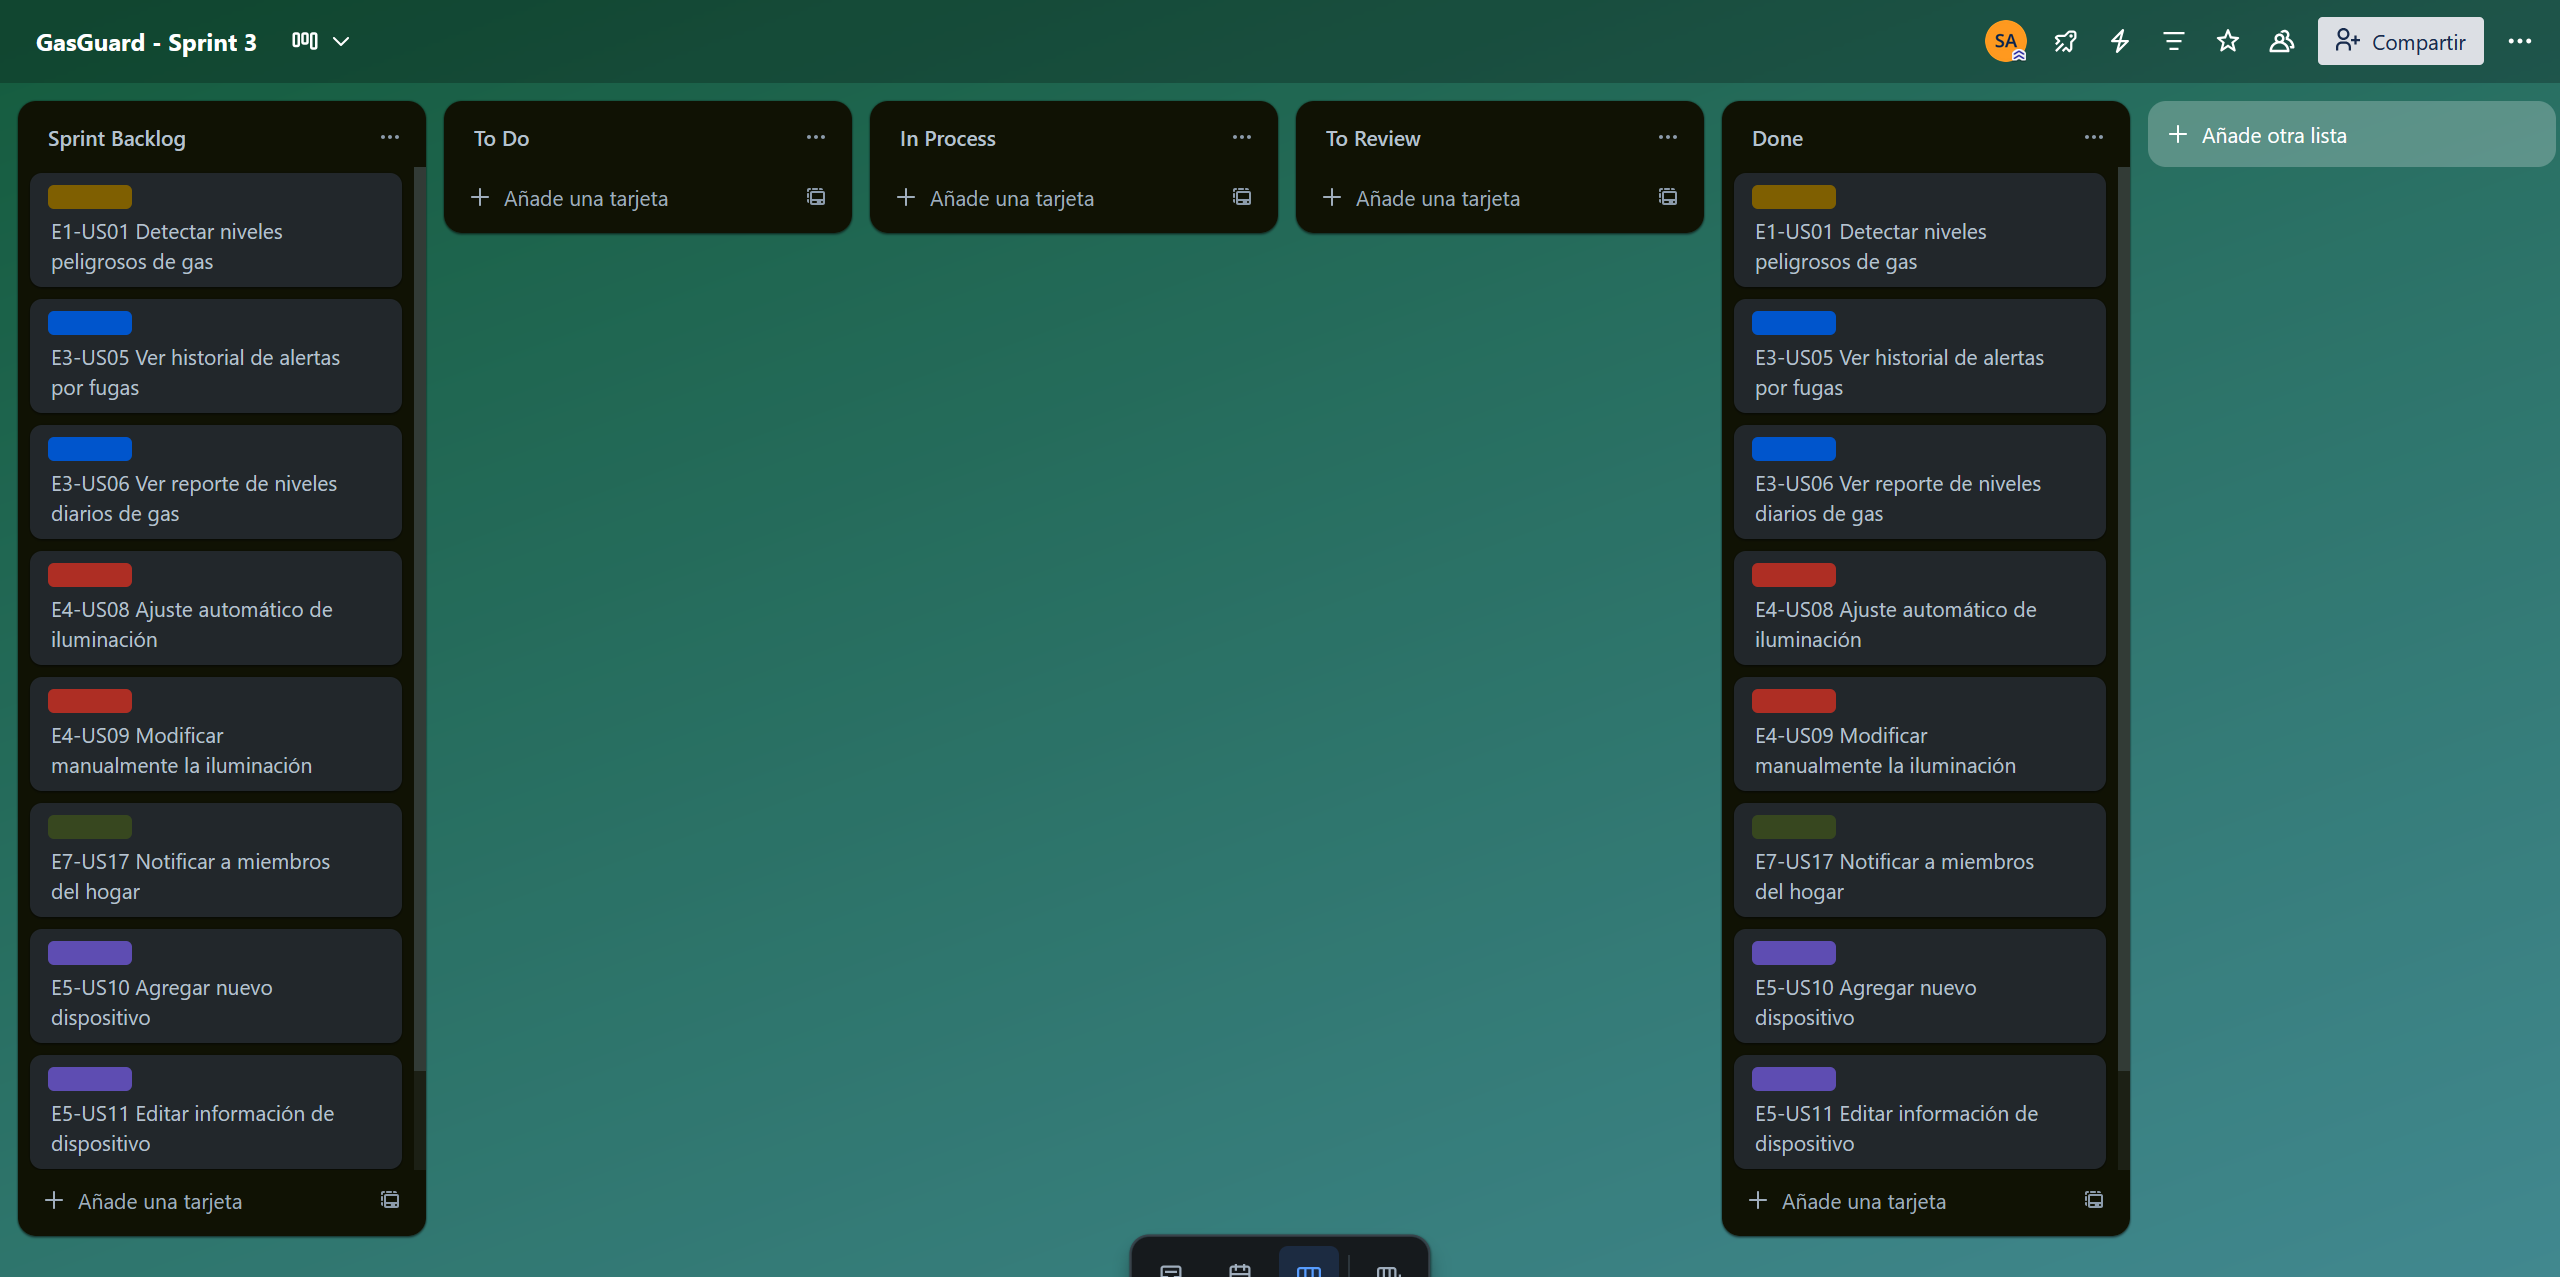
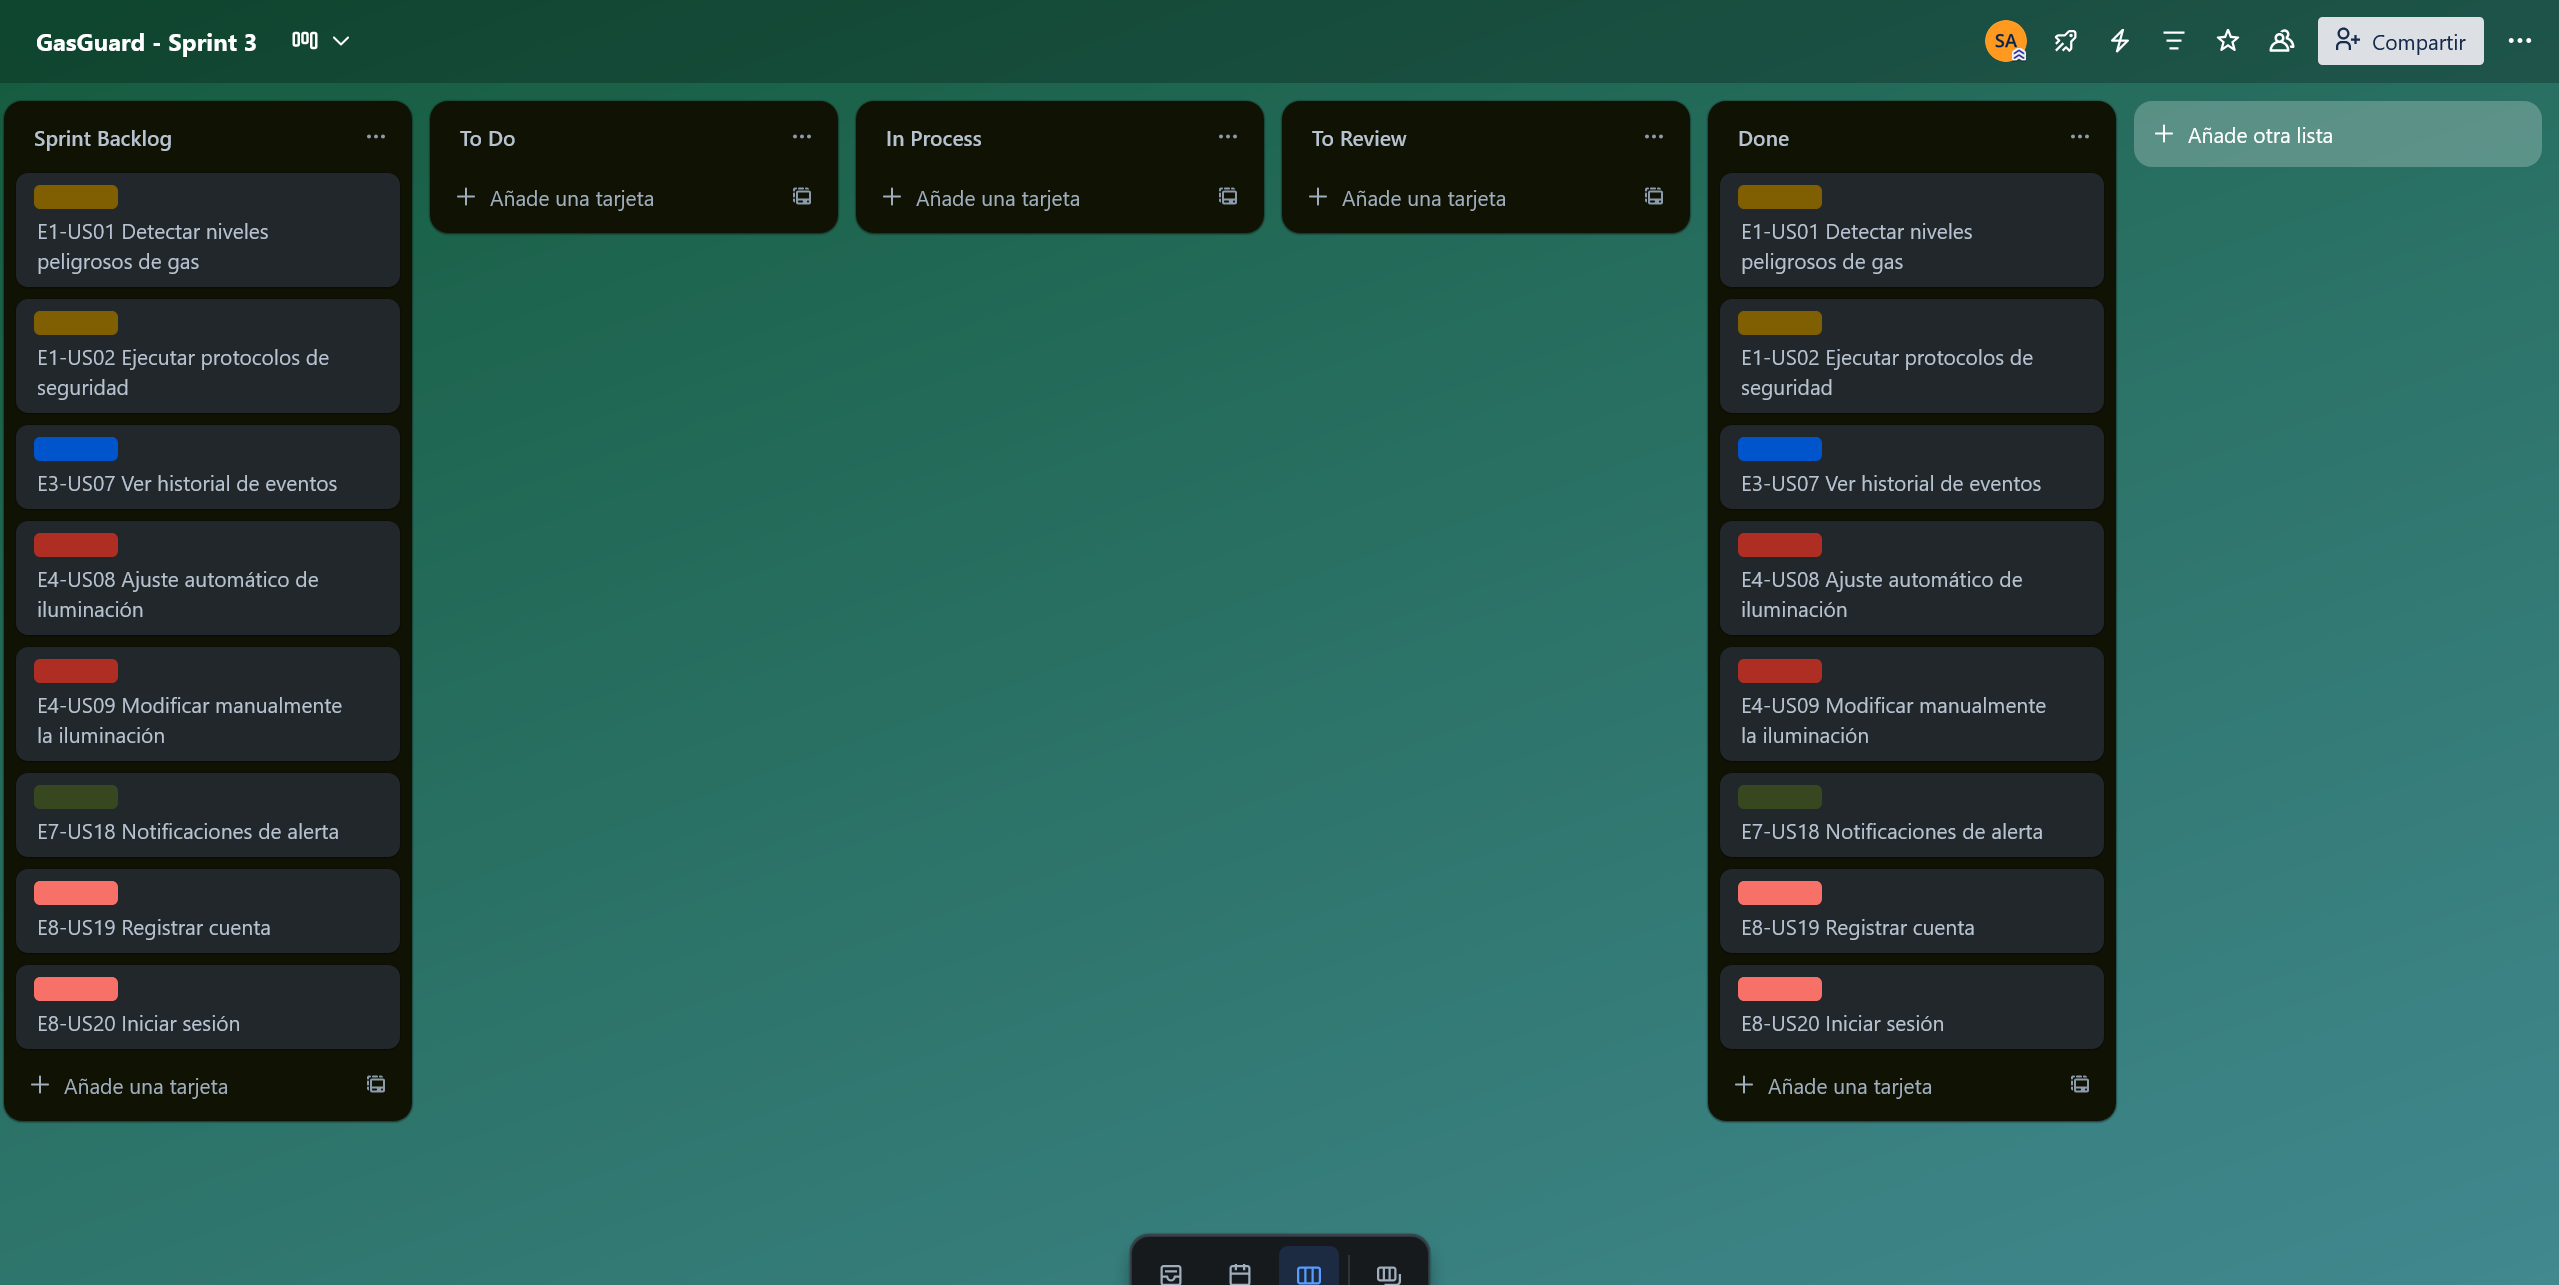
docs: new sprint backlog picture

diff --git a/README.md b/README.md
@@ -5134,7 +5134,7 @@ A continuación, se enseñarán los insights de ambos repositorios, donde se pod
 
 #### 6.2.3.3. Sprint Backlog 3
 
-<img src="./assets/sprint3/sprint3-backlog.PNG">
+<img src="./assets/sprint3/sprint3-backlog.png">
 
 Link al tablero de Trello: https://trello.com/b/TGg7LohF/gasguard-sprint-3
 
@@ -5180,7 +5180,7 @@ Link al tablero de Trello: https://trello.com/b/TGg7LohF/gasguard-sprint-3
         <tr>
             <td rowspan="1">E1-US02</td>
             <td rowspan="1">Ejecutar protocolos de seguridad</td>
-            <td>W28</td>
+            <td>W30</td>
             <td>Protocolos de seguridad (ESP32)</td>
             <td>Simular corte de suministro eléctrico, apertura de puertas y alarmas visuales y sonoras en prototipo</td>
             <td>5</td>
@@ -5190,7 +5190,7 @@ Link al tablero de Trello: https://trello.com/b/TGg7LohF/gasguard-sprint-3
         <tr>
             <td rowspan="3">E3-US07</td>
             <td rowspan="3">Ver historial de eventos</td>
-            <td>W35</td>
+            <td>W31</td>
             <td>Eventos UI (Web)</td>
             <td>Desarrollar pantalla de historial de eventos del sistema</td>
             <td>6</td>
@@ -5198,7 +5198,7 @@ Link al tablero de Trello: https://trello.com/b/TGg7LohF/gasguard-sprint-3
             <td>Done</td>
         </tr>
         <tr>
-            <td>W36</td>
+            <td>W32</td>
             <td>Eventos UI (Mobile)</td>
             <td>Versión mobile del historial de eventos</td>
             <td>5</td>
@@ -5206,7 +5206,7 @@ Link al tablero de Trello: https://trello.com/b/TGg7LohF/gasguard-sprint-3
             <td>Done</td>
         </tr>
         <tr>
-            <td>W37</td>
+            <td>W33</td>
             <td>Eventos API</td>
             <td>Implementar servicio para consulta de eventos</td>
             <td>7</td>
@@ -5216,7 +5216,7 @@ Link al tablero de Trello: https://trello.com/b/TGg7LohF/gasguard-sprint-3
         <tr>
             <td rowspan="3">E4-US08</td>
             <td rowspan="3">Ajuste automático de iluminación</td>
-            <td>W40</td>
+            <td>W34</td>
             <td>Sensor LDR </td>
             <td>Integrar fotoresistor y calibrar valores</td>
             <td>4</td>
@@ -5224,7 +5224,7 @@ Link al tablero de Trello: https://trello.com/b/TGg7LohF/gasguard-sprint-3
             <td>Done</td>
         </tr>
         <tr>
-            <td>W41</td>
+            <td>W35</td>
             <td>Control PWM (ESP32)</td>
             <td>Implementar regulación de intensidad lumínica</td>
             <td>5</td>
@@ -5232,7 +5232,7 @@ Link al tablero de Trello: https://trello.com/b/TGg7LohF/gasguard-sprint-3
             <td>Done</td>
         </tr>
         <tr>
-            <td>W42</td>
+            <td>W36</td>
             <td>Iluminación API</td>
             <td>Crear servicio para ajustes automáticos</td>
             <td>5</td>
@@ -5240,9 +5240,27 @@ Link al tablero de Trello: https://trello.com/b/TGg7LohF/gasguard-sprint-3
             <td>Done</td>
         </tr>
         <tr>
+            <td rowspan="3">E4-US09</td>
+            <td rowspan="3">Modificar manualmente la iluminación</td>
+            <td>W37</td>
+            <td>Control PWM (ESP32)</td>
+            <td>Implementar regulación de intensidad lumínica</td>
+            <td>5</td>
+            <td>Zaid Ramirez</td>
+            <td>Done</td>
+        </tr>
+        <tr>
+            <td>W38</td>
+            <td>Iluminación API</td>
+            <td>Crear servicio para ajuste manual</td>
+            <td>5</td>
+            <td>Gerardo Quilla</td>
+            <td>Done</td>
+        </tr>
+        <tr>
             <td rowspan="1">E7-US18</td>
             <td rowspan="1">Notificaciones de alerta</td>
-            <td>W46</td>
+            <td>W39</td>
             <td>Emergencias API</td>
             <td>Conectar con servicios externos </td>
             <td>7</td>
@@ -5252,7 +5270,7 @@ Link al tablero de Trello: https://trello.com/b/TGg7LohF/gasguard-sprint-3
         <tr>
             <td rowspan="3">E8-US19</td>
             <td rowspan="3">Registrar cuenta</td>
-            <td>W45</td>
+            <td>W40</td>
             <td>Signup UI (Web)</td>
             <td>Desarrollar formulario de registro web</td>
             <td>5</td>
@@ -5260,7 +5278,7 @@ Link al tablero de Trello: https://trello.com/b/TGg7LohF/gasguard-sprint-3
             <td>Done</td>
         </tr>
         <tr>
-            <td>W46</td>
+            <td>W41</td>
             <td>Signup UI (Mobile)</td>
             <td>Versión mobile del formulario de registro</td>
             <td>4</td>
@@ -5268,7 +5286,7 @@ Link al tablero de Trello: https://trello.com/b/TGg7LohF/gasguard-sprint-3
             <td>Done</td>
         </tr>
         <tr>
-            <td>W47</td>
+            <td>W42</td>
             <td>Auth API</td>
             <td>Implementar servicio de registro de usuarios</td>
             <td>7</td>
@@ -5278,7 +5296,7 @@ Link al tablero de Trello: https://trello.com/b/TGg7LohF/gasguard-sprint-3
         <tr>
             <td rowspan="3">E8-US20</td>
             <td rowspan="3">Iniciar sesión</td>
-            <td>W48</td>
+            <td>W43</td>
             <td>Login UI (Web)</td>
             <td>Desarrollar formulario de login web</td>
             <td>4</td>
@@ -5286,7 +5304,7 @@ Link al tablero de Trello: https://trello.com/b/TGg7LohF/gasguard-sprint-3
             <td>Done</td>
         </tr>
         <tr>
-            <td>W49</td>
+            <td>W44</td>
             <td>Login UI (Mobile)</td>
             <td>Versión mobile del formulario de login</td>
             <td>4</td>
@@ -5294,7 +5312,7 @@ Link al tablero de Trello: https://trello.com/b/TGg7LohF/gasguard-sprint-3
             <td>Done</td>
         </tr>
         <tr>
-            <td>W50</td>
+            <td>W45</td>
             <td>Auth Service</td>
             <td>Implementar lógica de autenticación JWT</td>
             <td>6</td>
